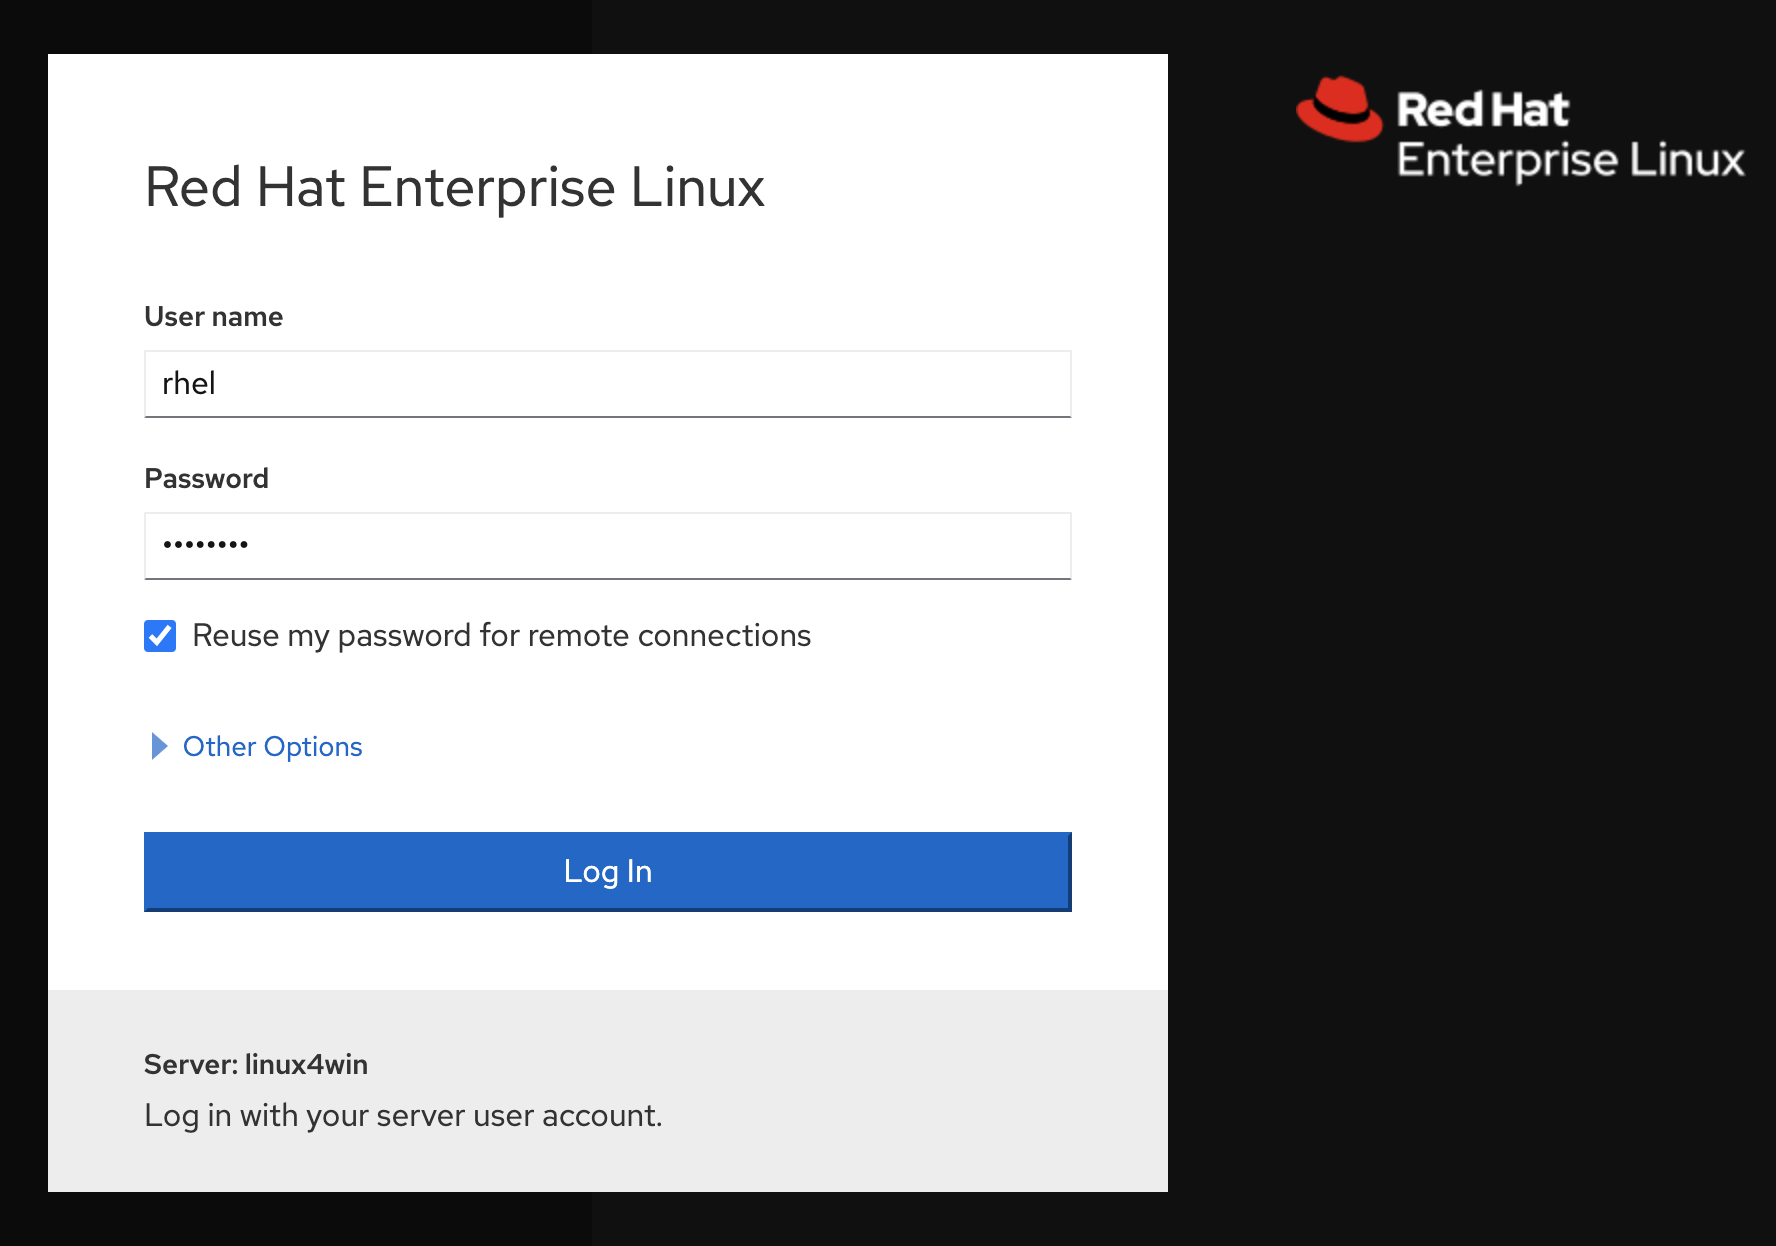
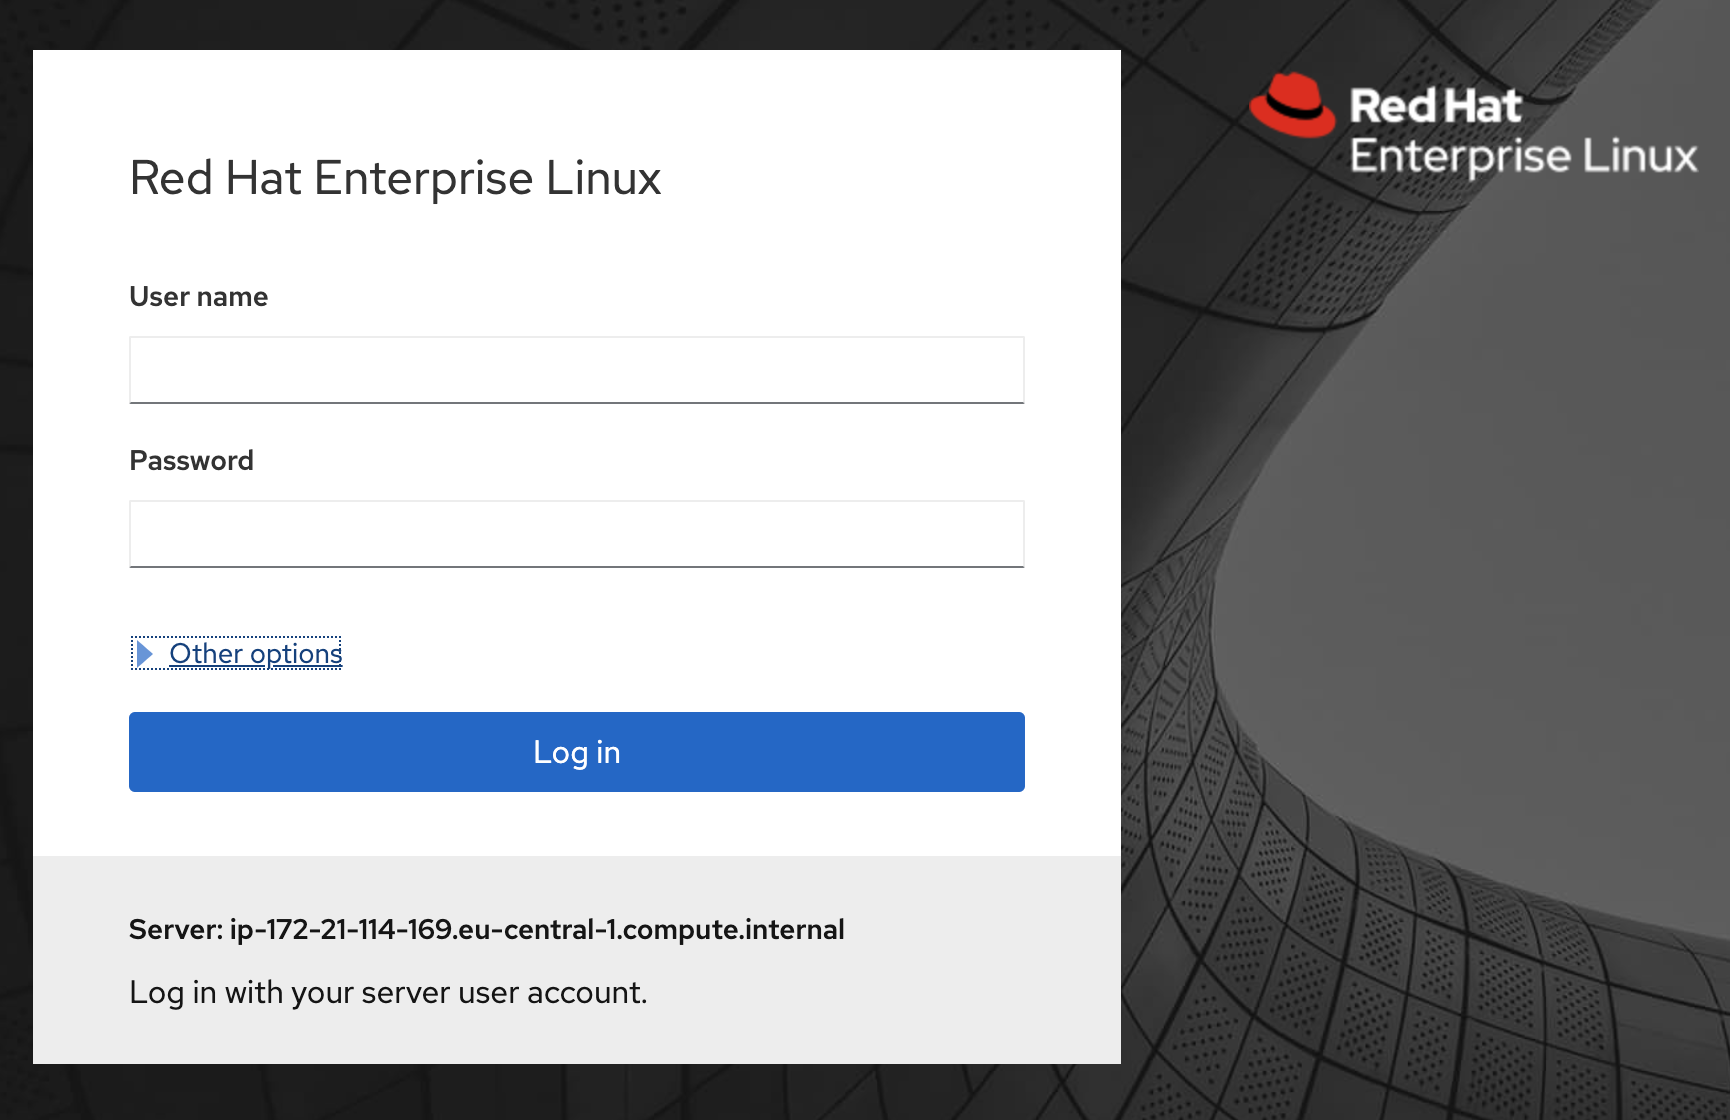
chaanged and removed login details and image

diff --git a/content/lab0.md b/content/lab0.md
@@ -91,8 +91,6 @@ You have to accept the fact that we are running self signed certificates. How yo
 
 After you you have connected to your server it is time to log into the web console application.
 
-:boom: Check the checkbox labeled ```Reuse my password for remote connections``` when you log in. If you do not do this, there are certain task you will not be able to do.
-
 :boom: Use the user **rhel** and password that your instructor provided to you and click **Log in** as displayed below.
 
 ![login page of cockpit](images/login.png)
